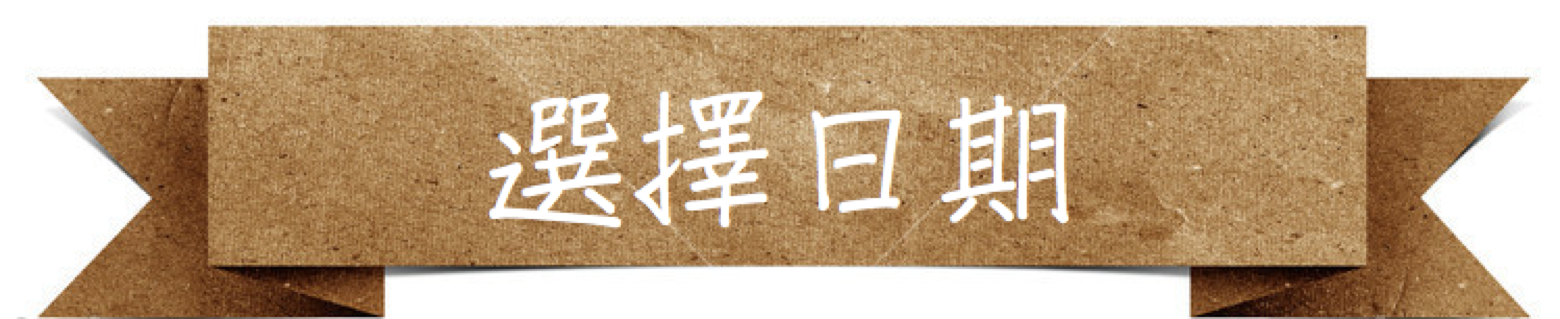
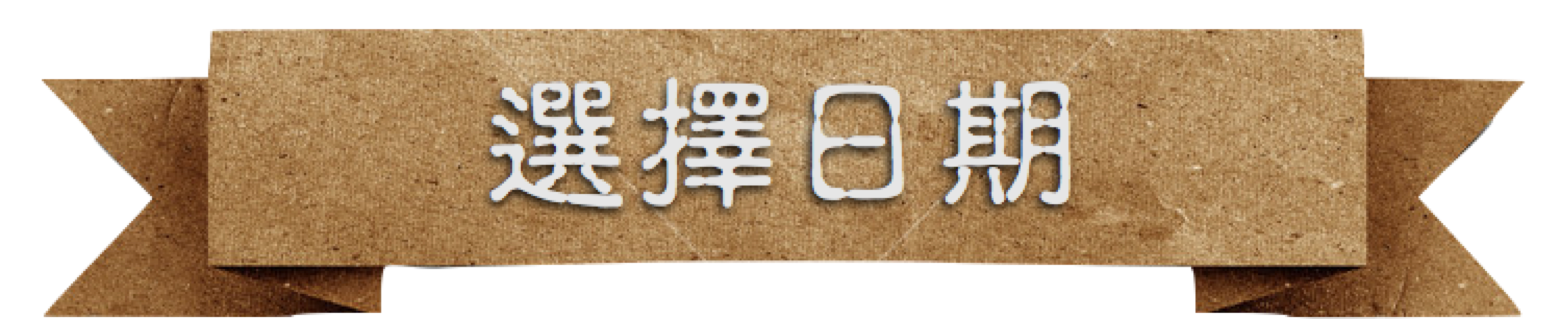
美化標題

diff --git a/css/style.css b/css/style.css
@@ -291,6 +291,8 @@ float:none;
     align-items: center;
     display: flex;
     flex-direction: column-reverse;
+    background: url('middle2.jpg') no-repeat; 
+    background-size: auto;
 }
 
 #level_1 img{
